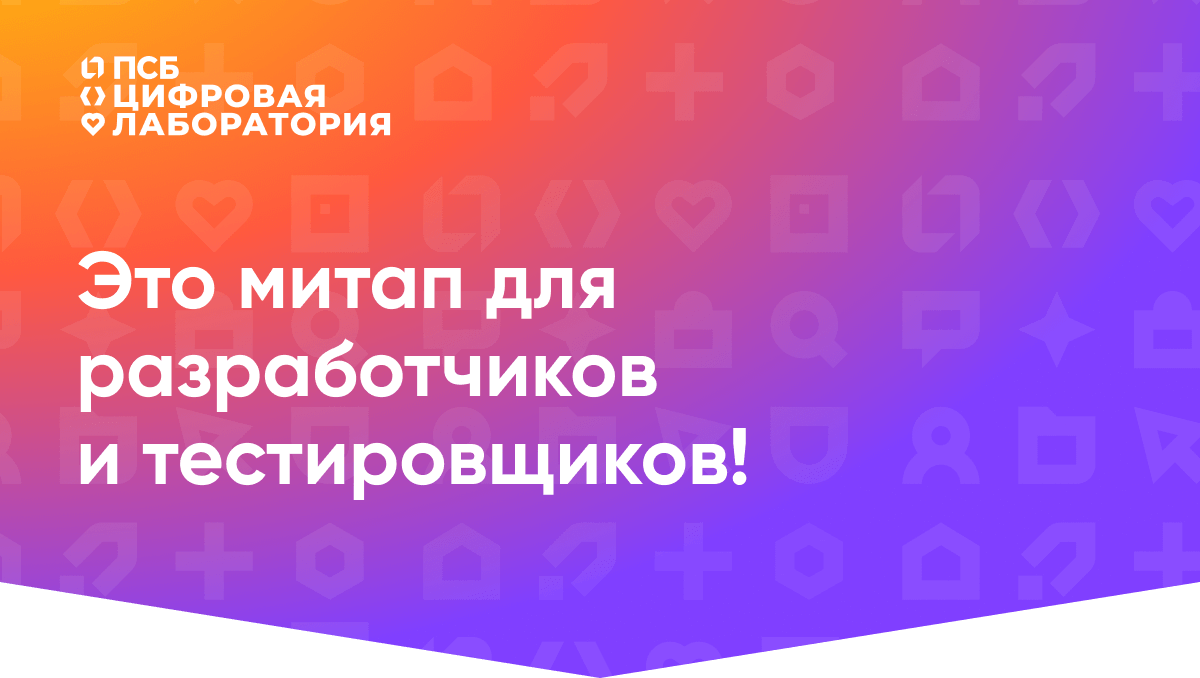
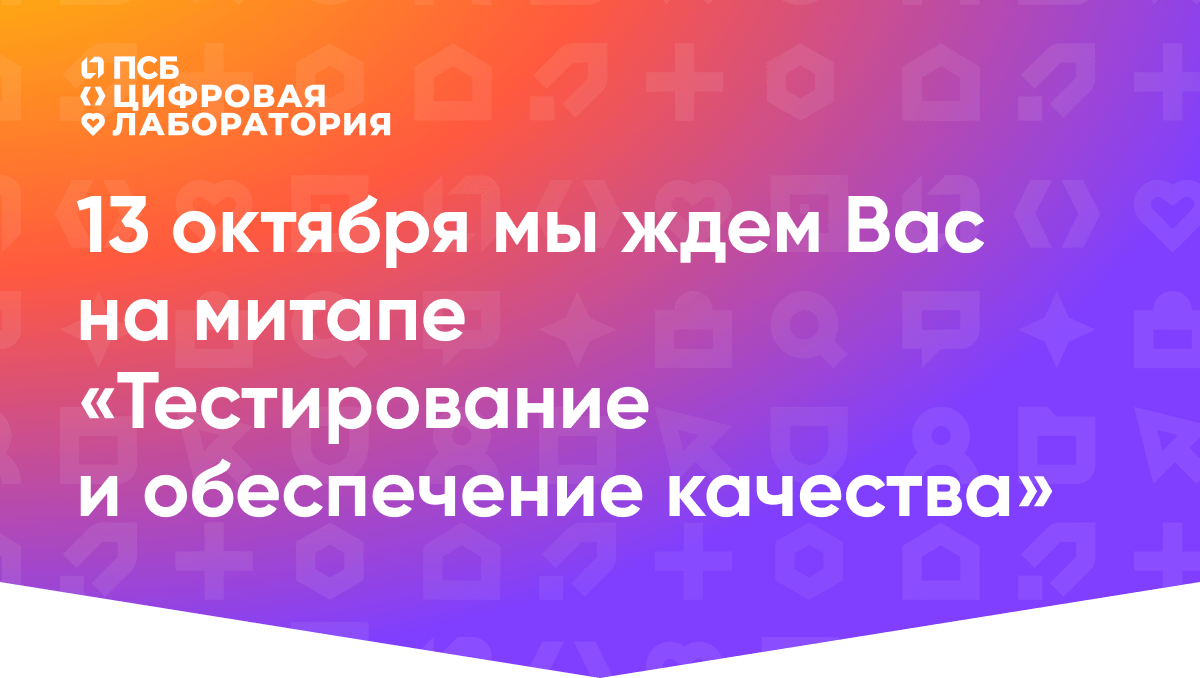
change psb-test-dev-meetup

Changed region(s): [[0.0617, 0.2788, 0.8942, 0.7743]]

diff --git a/psb-test-dev-meetup/psb-test-dev-meetup.html b/psb-test-dev-meetup/psb-test-dev-meetup.html
@@ -118,35 +118,6 @@
             </tbody>
         </table>
     </div>
-    <!--[if mso | IE]></td></tr></table><table align="center" border="0" cellpadding="0" cellspacing="0" class="" style="width:520px;" width="520" bgcolor="#F5F5F5" ><tr><td style="line-height:0px;font-size:0px;mso-line-height-rule:exactly;"><![endif]-->
-    <div style="background:#F5F5F5;background-color:#F5F5F5;margin:0px auto;border-radius:20px;max-width:520px;margin-top:44px;">
-        <table align="center" border="0" cellpadding="0" cellspacing="0" role="presentation" style="background:#F5F5F5;background-color:#F5F5F5;width:100%;border-radius:20px;">
-            <tbody>
-            <tr>
-                <td style="direction:ltr;font-size:0px;padding:20px 20px 18px;">
-                    <!--[if mso | IE]><table role="presentation" border="0" cellpadding="0" cellspacing="0"><tr><td class="" style="vertical-align:top;width:600px;" ><![endif]-->
-                    <div class="mj-column-per-100 mj-outlook-group-fix" style="font-size:0px;text-align:left;direction:ltr;display:inline-block;vertical-align:top;width:100%;">
-                        <table border="0" cellpadding="0" cellspacing="0" role="presentation" style="vertical-align:top;" width="100%">
-                            <tbody>
-                            <tr>
-                                <td align="left" style="font-size:0px;word-break:break-word;padding-bottom:14px;">
-                                    <div style="font-family:Gilroy, Helvetica, Arial, sans-serif;font-size:14px;font-weight:400;line-height:110%;text-align:left;color:#222222;"><b>13 октября</b> поговорим о том, какие процессы упрощают жизнь и повышают эффективность не только команды QA-инженеров, но и разработчиков.</div>
-                                </td>
-                            </tr>
-                            <tr>
-                                <td align="left" style="font-size:0px;word-break:break-word;">
-                                    <div style="font-family:Gilroy, Helvetica, Arial, sans-serif;font-size:14px;font-weight:400;line-height:110%;text-align:left;color:#222222;">Расскажем про инструменты, обсудим реальные кейсы. Также у вас будет отличная возможность поделиться опытом среди единомышленников и вместе придумывать решения для непростых задач</div>
-                                </td>
-                            </tr>
-                            </tbody>
-                        </table>
-                    </div>
-                    <!--[if mso | IE]></td></tr></table><![endif]-->
-                </td>
-            </tr>
-            </tbody>
-        </table>
-    </div>
     <!--[if mso | IE]></td></tr></table><table align="center" border="0" cellpadding="0" cellspacing="0" class="" style="width:600px;" width="600" ><tr><td style="line-height:0px;font-size:0px;mso-line-height-rule:exactly;"><![endif]-->
     <div style="margin:0px auto;max-width:600px;">
         <table align="center" border="0" cellpadding="0" cellspacing="0" role="presentation" style="width:100%;">
@@ -158,7 +129,7 @@
                         <table border="0" cellpadding="0" cellspacing="0" role="presentation" style="vertical-align:top;" width="100%">
                             <tbody>
                             <tr>
-                                <td align="center" style="font-size:0px;word-break:break-word;padding:17px 0px 30px 20px;">
+                                <td align="center" style="font-size:0px;word-break:break-word;padding:45px 0px 53px 20px;">
                                     <table border="0" cellpadding="0" cellspacing="0" role="presentation" style="border-collapse:collapse;border-spacing:0px;">
                                         <tbody>
                                         <tr>
@@ -172,27 +143,27 @@
                             </tr>
                             <tr>
                                 <td align="center" style="font-size:0px;word-break:break-word;padding-left: 20px;padding-bottom:25px;padding-right:20px;">
-                                    <div style="font-family:Gilroy, Helvetica, Arial, sans-serif;font-size:16px;font-weight:400;line-height:100%;text-align:left;color:#000000;max-width:390px;width:100%;">как начинающему инженеру по тестированию стать сотрудником ПСБ и что его ожидает</div>
+                                    <div style="font-family:Gilroy, Helvetica, Arial, sans-serif;font-size:16px;font-weight:400;line-height:100%;text-align:left;color:#000000;max-width:395px;width:100%;">Как использование ИИ создает новые вызовы для QA-инженеров</div>
                                 </td>
                             </tr>
                             <tr>
                                 <td align="center" style="font-size:0px;word-break:break-word;padding-left: 20px;padding-bottom:25px;padding-right:20px;">
-                                    <div style="font-family:Gilroy, Helvetica, Arial, sans-serif;font-size:16px;font-weight:400;line-height:100%;text-align:left;color:#000000;max-width:390px;width:100%;">Как использование ИИ создает новые вызовы для QA-инженеров</div>
+                                    <div style="font-family:Gilroy, Helvetica, Arial, sans-serif;font-size:16px;font-weight:400;line-height:100%;text-align:left;color:#000000;max-width:395px;width:100%;">Матрица критичности-сложности, примеры использования, и пошаговую инструкция внедрения.</div>
                                 </td>
                             </tr>
                             <tr>
                                 <td align="center" style="font-size:0px;word-break:break-word;padding-left: 20px;padding-bottom:25px;padding-right:20px;">
-                                    <div style="font-family:Gilroy, Helvetica, Arial, sans-serif;font-size:16px;font-weight:400;line-height:100%;text-align:left;color:#000000;max-width:390px;width:100%;">Матрица критичности-сложности, примеры использования, и пошаговую инструкция внедрения.</div>
+                                    <div style="font-family:Gilroy, Helvetica, Arial, sans-serif;font-size:16px;font-weight:400;line-height:100%;text-align:left;color:#000000;max-width:395px;width:100%;">Лучшие практики по тестированию асинхронных операций</div>
                                 </td>
                             </tr>
                             <tr>
                                 <td align="center" style="font-size:0px;word-break:break-word;padding-left: 20px;padding-bottom:25px;padding-right:20px;">
-                                    <div style="font-family:Gilroy, Helvetica, Arial, sans-serif;font-size:16px;font-weight:400;line-height:100%;text-align:left;color:#000000;max-width:390px;width:100%;">Лучшие практики по тестированию асинхронных операций</div>
+                                    <div style="font-family:Gilroy, Helvetica, Arial, sans-serif;font-size:16px;font-weight:400;line-height:100%;text-align:left;color:#000000;max-width:395px;width:100%;">Сокращение времени тестирования за счет автоматизации подготовки тестовых данных</div>
                                 </td>
                             </tr>
                             <tr>
                                 <td align="center" style="font-size:0px;word-break:break-word;padding-left: 20px;padding-bottom:50px;padding-right:20px;">
-                                    <div style="font-family:Gilroy, Helvetica, Arial, sans-serif;font-size:16px;font-weight:400;line-height:100%;text-align:left;color:#000000;max-width:390px;width:100%;">Сокращение времени тестирования за счет автоматизации подготовки тестовых данных</div>
+                                    <div style="font-family:Gilroy, Helvetica, Arial, sans-serif;font-size:16px;font-weight:400;line-height:100%;text-align:left;color:#000000;max-width:395px;width:100%;">Поделимся опытом среди единомышленников и вместе найдем решения непростых задач</div>
                                 </td>
                             </tr>
                             <tr>
@@ -345,7 +316,7 @@
                             </tr>
                             <tr>
                                 <td align="left" style="font-size:0px;word-break:break-word;">
-                                    <div style="font-family:Gilroy, Helvetica, Arial, sans-serif;font-size:16px;font-weight:400;line-height:100%;text-align:left;color:#000000;">Старший специалист по контролю качества, ITFB</div>
+                                    <div style="font-family:Gilroy, Helvetica, Arial, sans-serif;font-size:16px;font-weight:400;line-height:100%;text-align:left;color:#000000;">Старший специалист по контролю качества, ITFB Group</div>
                                 </td>
                             </tr>
                             </tbody>
@@ -618,7 +589,7 @@
                                 </td>
                             </tr>
                             <tr>
-                                <td align="center" vertical-align="middle" style="font-size:0px;word-break:break-word;padding-bottom:46px;">
+                                <td align="center" vertical-align="middle" style="font-size:0px;word-break:break-word;padding-bottom:16px;">
                                     <table border="0" cellpadding="0" cellspacing="0" role="presentation" style="border-collapse:separate;width:238px;line-height:100%;">
                                         <tr>
                                             <td align="center" bgcolor="linear-gradient(140deg, #7E3C8F 0%, #D04A71 30.61%, #EC624F 55.14%, #EF7767 90.67%);" role="presentation" style="border:none;border-radius:82px;cursor:auto;height:60px;mso-padding-alt:10px 25px;background:linear-gradient(140deg, #7E3C8F 0%, #D04A71 30.61%, #EC624F 55.14%, #EF7767 90.67%);" valign="middle">
@@ -628,6 +599,69 @@
                                     </table>
                                 </td>
                             </tr>
+                            </tbody>
+                        </table>
+                    </div>
+                    <!--[if mso | IE]></td></tr></table><![endif]-->
+                </td>
+            </tr>
+            </tbody>
+        </table>
+    </div>
+    <!--[if mso | IE]></td></tr></table><table align="center" border="0" cellpadding="0" cellspacing="0" class="" style="width:600px;" width="600" ><tr><td style="line-height:0px;font-size:0px;mso-line-height-rule:exactly;"><![endif]-->
+    <div style="margin:0px auto;max-width:600px;">
+        <table align="center" border="0" cellpadding="0" cellspacing="0" role="presentation" style="width:100%;">
+            <tbody>
+            <tr>
+                <td style="direction:ltr;font-size:0px;padding-left:20px;padding-bottom:40px;text-align:center;">
+                    <!--[if mso | IE]><table role="presentation" border="0" cellpadding="0" cellspacing="0"><tr><td class="" style="vertical-align:top;width:53px;padding-top:18px;" ><![endif]-->
+                    <div class="mj-outlook-group-fix" style="font-size:0px;text-align:left;direction:ltr;display:inline-block;vertical-align:top;width:53px;padding-top:18px;">
+                        <table border="0" cellpadding="0" cellspacing="0" role="presentation" style="vertical-align:top;" width="100%">
+                            <tbody>
+                            <tr>
+                                <td style="font-size:0px;word-break:break-word;">
+                                    <table border="0" cellpadding="0" cellspacing="0" role="presentation" style="border-collapse:collapse;border-spacing:0px;">
+                                        <tbody>
+                                        <tr>
+                                            <td style="width:33px;">
+                                                <img alt="Декор. стрелка" height="auto" src="https://cp.unisender.com/ru/user_file?resource=images&user_id=5608985&name=psb-test-meetup-arrow.png" style="border:0;display:block;outline:none;text-decoration:none;height:auto;width:100%;font-size:13px;" width="33" />
+                                            </td>
+                                        </tr>
+                                        </tbody>
+                                    </table>
+                                </td>
+                            </tr>
+                            </tbody>
+                        </table>
+                    </div>
+                    <!--[if mso | IE]></td><td class="" style="vertical-align:top;" ><![endif]-->
+                    <div class="mj-outlook-group-fix" style="font-size:0px;text-align:left;direction:ltr;display:inline-block;vertical-align:top;">
+                        <table border="0" cellpadding="0" cellspacing="0" role="presentation" style="vertical-align:top;" width="100%">
+                            <tbody>
+                            <tr>
+                                <td align="left" style="font-size:0px;word-break:break-word;padding-top:12px;">
+                                    <div style="font-family:Gilroy, Helvetica, Arial, sans-serif;font-size:18px;font-weight:400;line-height:119.5%;text-align:left;color:#000000;">Вход на мероприятие по документу,<br/>удостоверяющему личность</div>
+                                </td>
+                            </tr>
+                            </tbody>
+                        </table>
+                    </div>
+                    <!--[if mso | IE]></td></tr></table><![endif]-->
+                </td>
+            </tr>
+            </tbody>
+        </table>
+    </div>
+    <!--[if mso | IE]></td></tr></table><table align="center" border="0" cellpadding="0" cellspacing="0" class="" style="width:600px;" width="600" ><tr><td style="line-height:0px;font-size:0px;mso-line-height-rule:exactly;"><![endif]-->
+    <div style="margin:0px auto;max-width:600px;">
+        <table align="center" border="0" cellpadding="0" cellspacing="0" role="presentation" style="width:100%;">
+            <tbody>
+            <tr>
+                <td style="direction:ltr;font-size:0px;text-align:center;">
+                    <!--[if mso | IE]><table role="presentation" border="0" cellpadding="0" cellspacing="0"><tr><td class="" style="vertical-align:top;width:600px;" ><![endif]-->
+                    <div class="mj-column-per-100 mj-outlook-group-fix" style="font-size:0px;text-align:left;direction:ltr;display:inline-block;vertical-align:top;width:100%;">
+                        <table border="0" cellpadding="0" cellspacing="0" role="presentation" style="vertical-align:top;" width="100%">
+                            <tbody>
                             <tr>
                                 <td align="center" class="css-image" style="font-size:0px;padding:0;word-break:break-word;">
                                     <table border="0" cellpadding="0" cellspacing="0" role="presentation" style="border-collapse:collapse;border-spacing:0px;">
@@ -649,6 +683,43 @@
             </tr>
             </tbody>
         </table>
+    </div>
+    <!--[if mso | IE]></td></tr></table><table align="center" border="0" cellpadding="0" cellspacing="0" class="" style="width:600px;" width="600" ><tr><td style="line-height:0px;font-size:0px;mso-line-height-rule:exactly;"><v:rect style="width:600px;" xmlns:v="urn:schemas-microsoft-com:vml" fill="true" stroke="false"><v:fill origin="0.5, 0" position="0.5, 0" src="https://cp.unisender.com/ru/user_file?resource=images&user_id=5608985&name=psb-test-dev-meetup-bg.png" type="tile" size="1,1" aspect="atleast" /><v:textbox style="mso-fit-shape-to-text:true" inset="0,0,0,0"><![endif]-->
+    <div style="background:url(https://cp.unisender.com/ru/user_file?resource=images&user_id=5608985&name=psb-test-dev-meetup-bg.png) center top / cover repeat;background-position:center top;background-repeat:repeat;background-size:cover;margin:0px auto;max-width:600px;">
+        <div style="line-height:0;font-size:0;">
+            <table align="center" background="https://cp.unisender.com/ru/user_file?resource=images&user_id=5608985&name=psb-test-dev-meetup-bg.png" border="0" cellpadding="0" cellspacing="0" role="presentation" style="background:url(https://cp.unisender.com/ru/user_file?resource=images&user_id=5608985&name=psb-test-dev-meetup-bg.png) center top / cover repeat;background-position:center top;background-repeat:repeat;background-size:cover;width:100%;">
+                <tbody>
+                <tr>
+                    <td style="direction:ltr;font-size:0px;padding:0;text-align:center;">
+                        <!--[if mso | IE]><table role="presentation" border="0" cellpadding="0" cellspacing="0"><tr><td class="" style="vertical-align:top;width:600px;" ><![endif]-->
+                        <div class="mj-column-per-100 mj-outlook-group-fix" style="font-size:0px;text-align:left;direction:ltr;display:inline-block;vertical-align:top;width:100%;">
+                            <table border="0" cellpadding="0" cellspacing="0" role="presentation" style="vertical-align:top;" width="100%">
+                                <tbody>
+                                <tr>
+                                    <td align="center" style="font-size:0px;word-break:break-word;padding-top:50px;padding-bottom:16px;">
+                                        <div style="font-family:Gilroy, Helvetica, Arial, sans-serif;font-size:25px;font-weight:700;line-height:110%;text-align:center;color:#FFFFFF;max-width:458px;width:100%;">Подписатьcя на телеграм-канал PSB IT Team</div>
+                                    </td>
+                                </tr>
+                                <tr>
+                                    <td align="center" vertical-align="middle" style="font-size:0px;word-break:break-word;padding-bottom:20px;">
+                                        <table border="0" cellpadding="0" cellspacing="0" role="presentation" style="border-collapse:separate;width:200px;line-height:100%;">
+                                            <tr>
+                                                <td align="center" bgcolor="linear-gradient(289deg, #551864 97.49%, #D04A71 147.16%, #EC624F 160.73%, #EF7767 201.49%);" role="presentation" style="border:none;border-radius:82px;cursor:auto;height:50px;mso-padding-alt:10px 25px;background:linear-gradient(289deg, #551864 97.49%, #D04A71 147.16%, #EC624F 160.73%, #EF7767 201.49%);;" valign="middle">
+                                                    <a href="https://t.me/psb_it_team" style="display:inline-block;width:150px;background:linear-gradient(289deg, #551864 97.49%, #D04A71 147.16%, #EC624F 160.73%, #EF7767 201.49%);;color:#FFFFFF;font-family:Gilroy, Helvetica, Arial, sans-serif;font-size:16px;font-weight:600;line-height:120%;margin:0;text-decoration:none;text-transform:none;mso-padding-alt:0px;border-radius:82px;" target="_blank"> Подписаться </a>
+                                                </td>
+                                            </tr>
+                                        </table>
+                                    </td>
+                                </tr>
+                                </tbody>
+                            </table>
+                        </div>
+                        <!--[if mso | IE]></td></tr></table><![endif]-->
+                    </td>
+                </tr>
+                </tbody>
+            </table>
+        </div>
     </div>
     <!--[if mso | IE]></td></tr></table><table align="center" border="0" cellpadding="0" cellspacing="0" class="" style="width:600px;" width="600" bgcolor="#282828" ><tr><td style="line-height:0px;font-size:0px;mso-line-height-rule:exactly;"><![endif]-->
     <div style="background:#282828;background-color:#282828;margin:0px auto;max-width:600px;">
